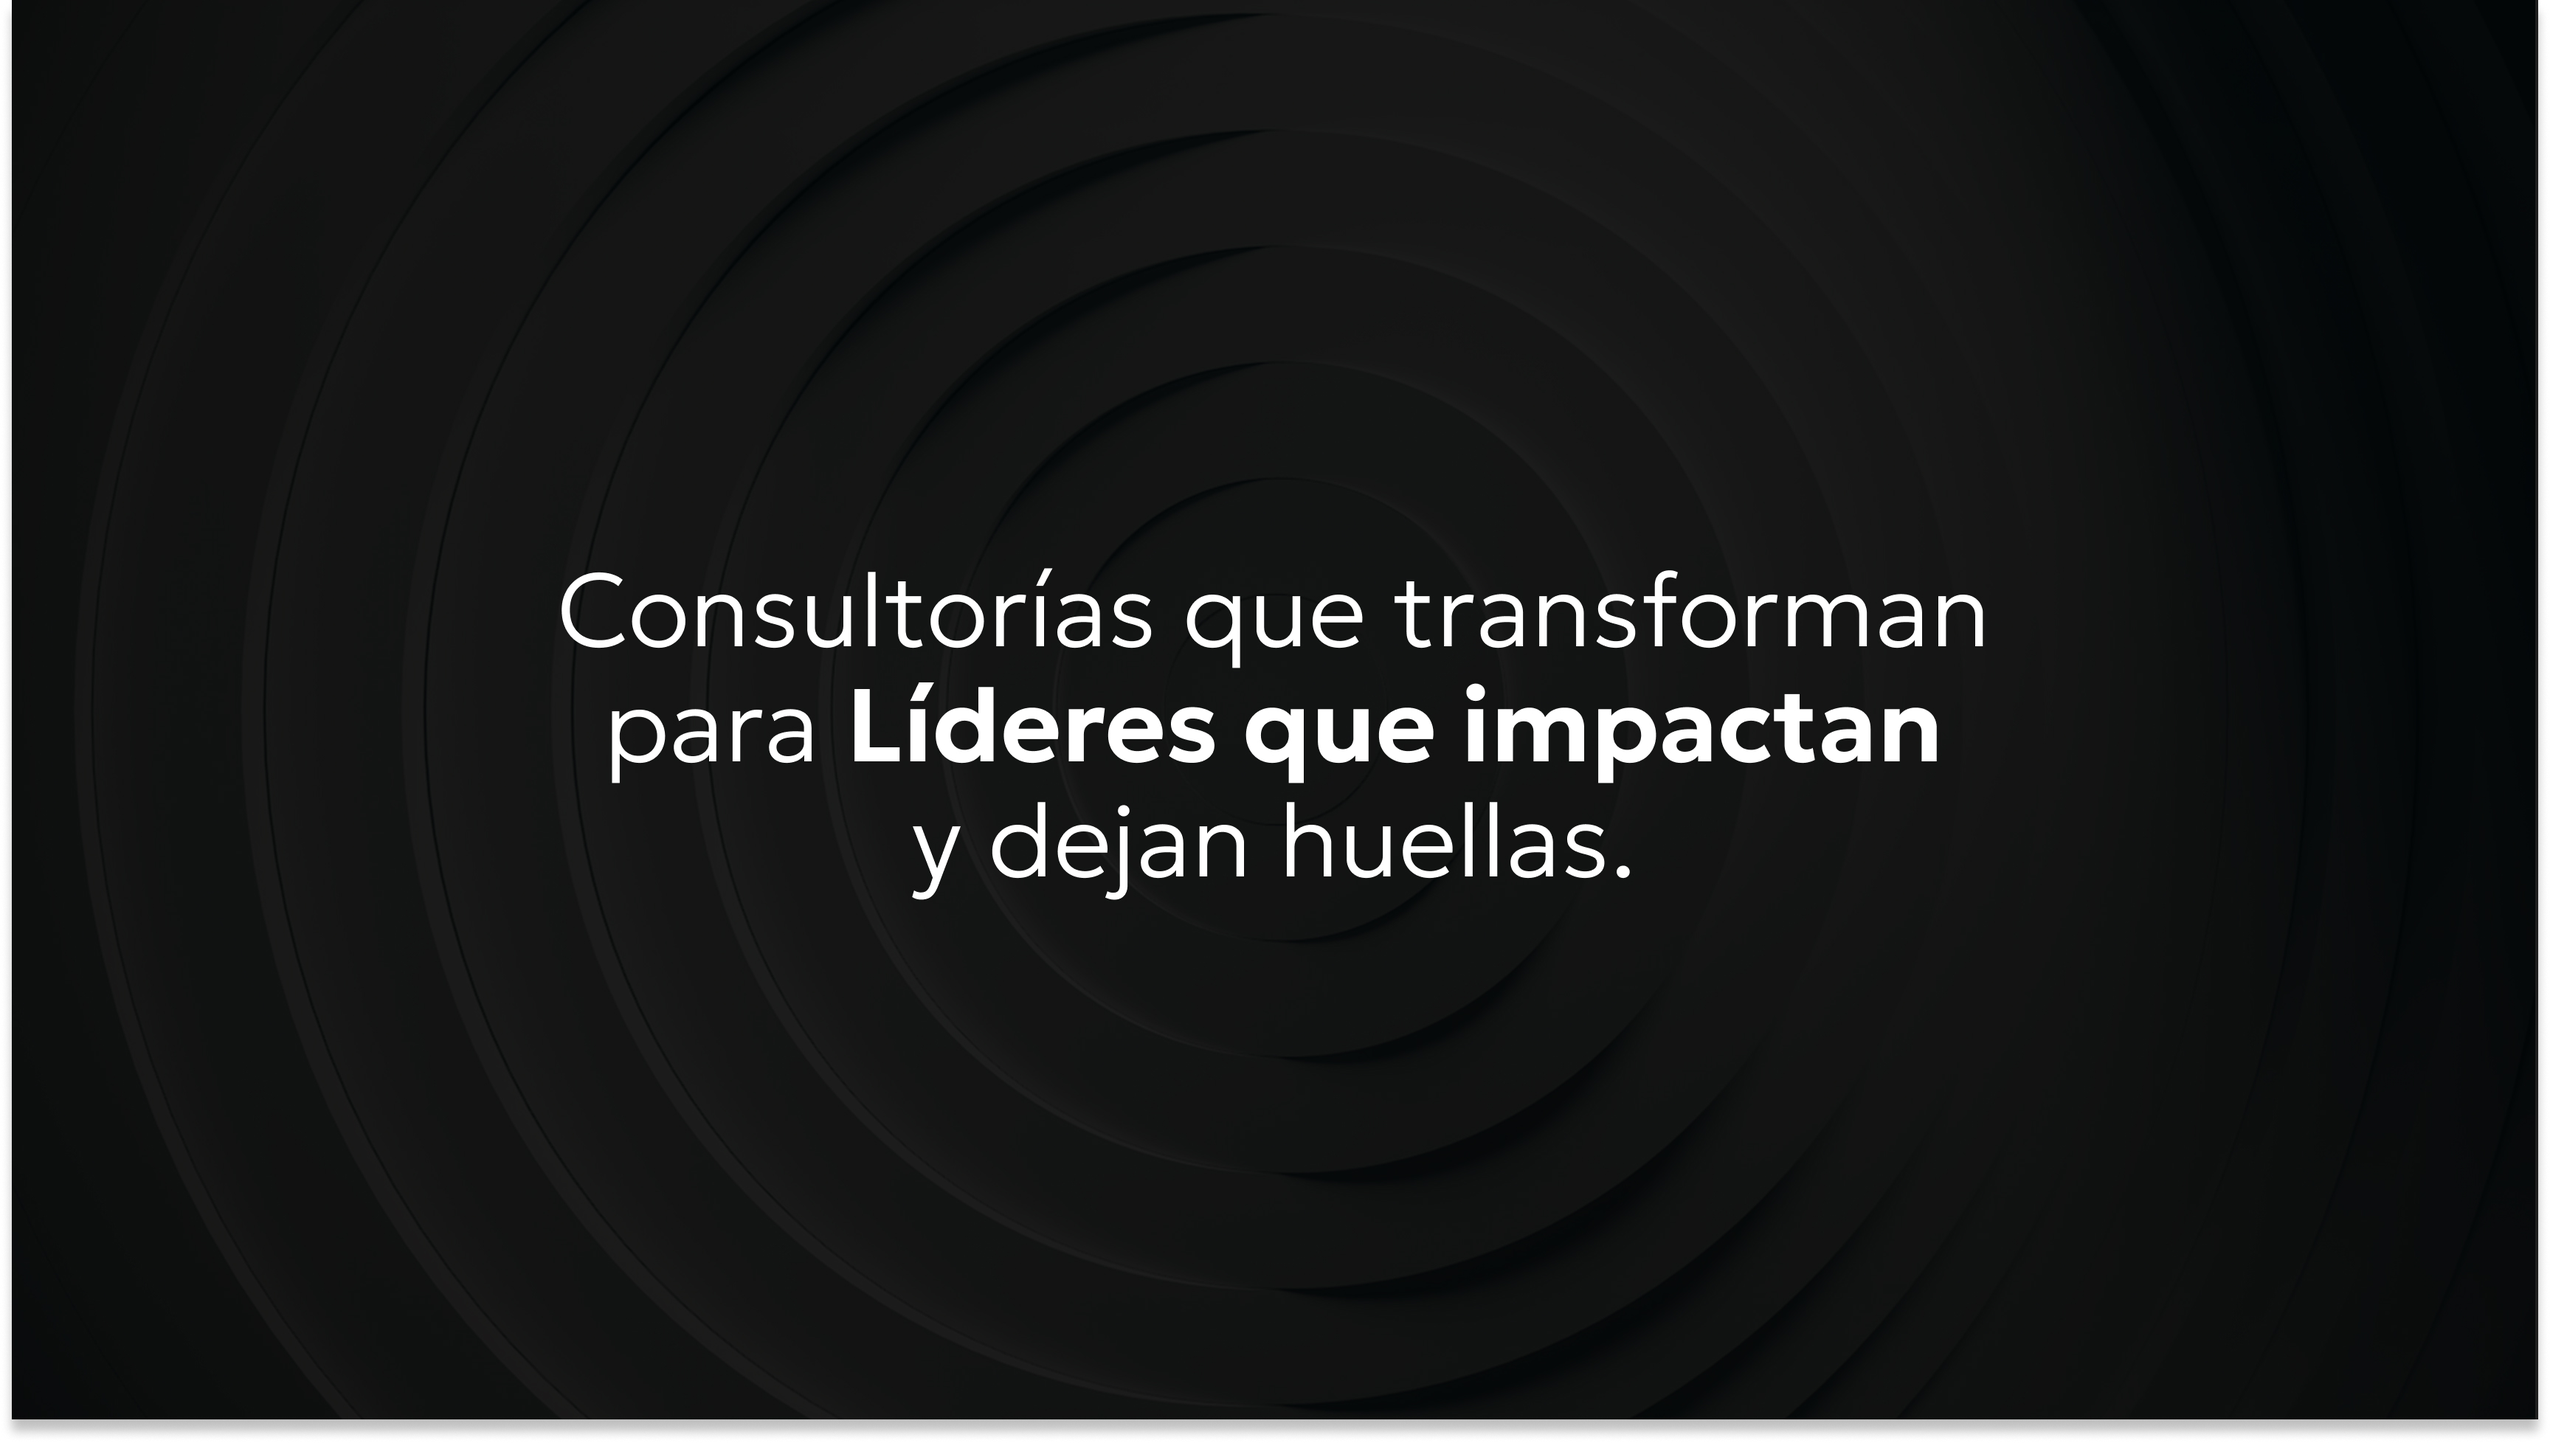
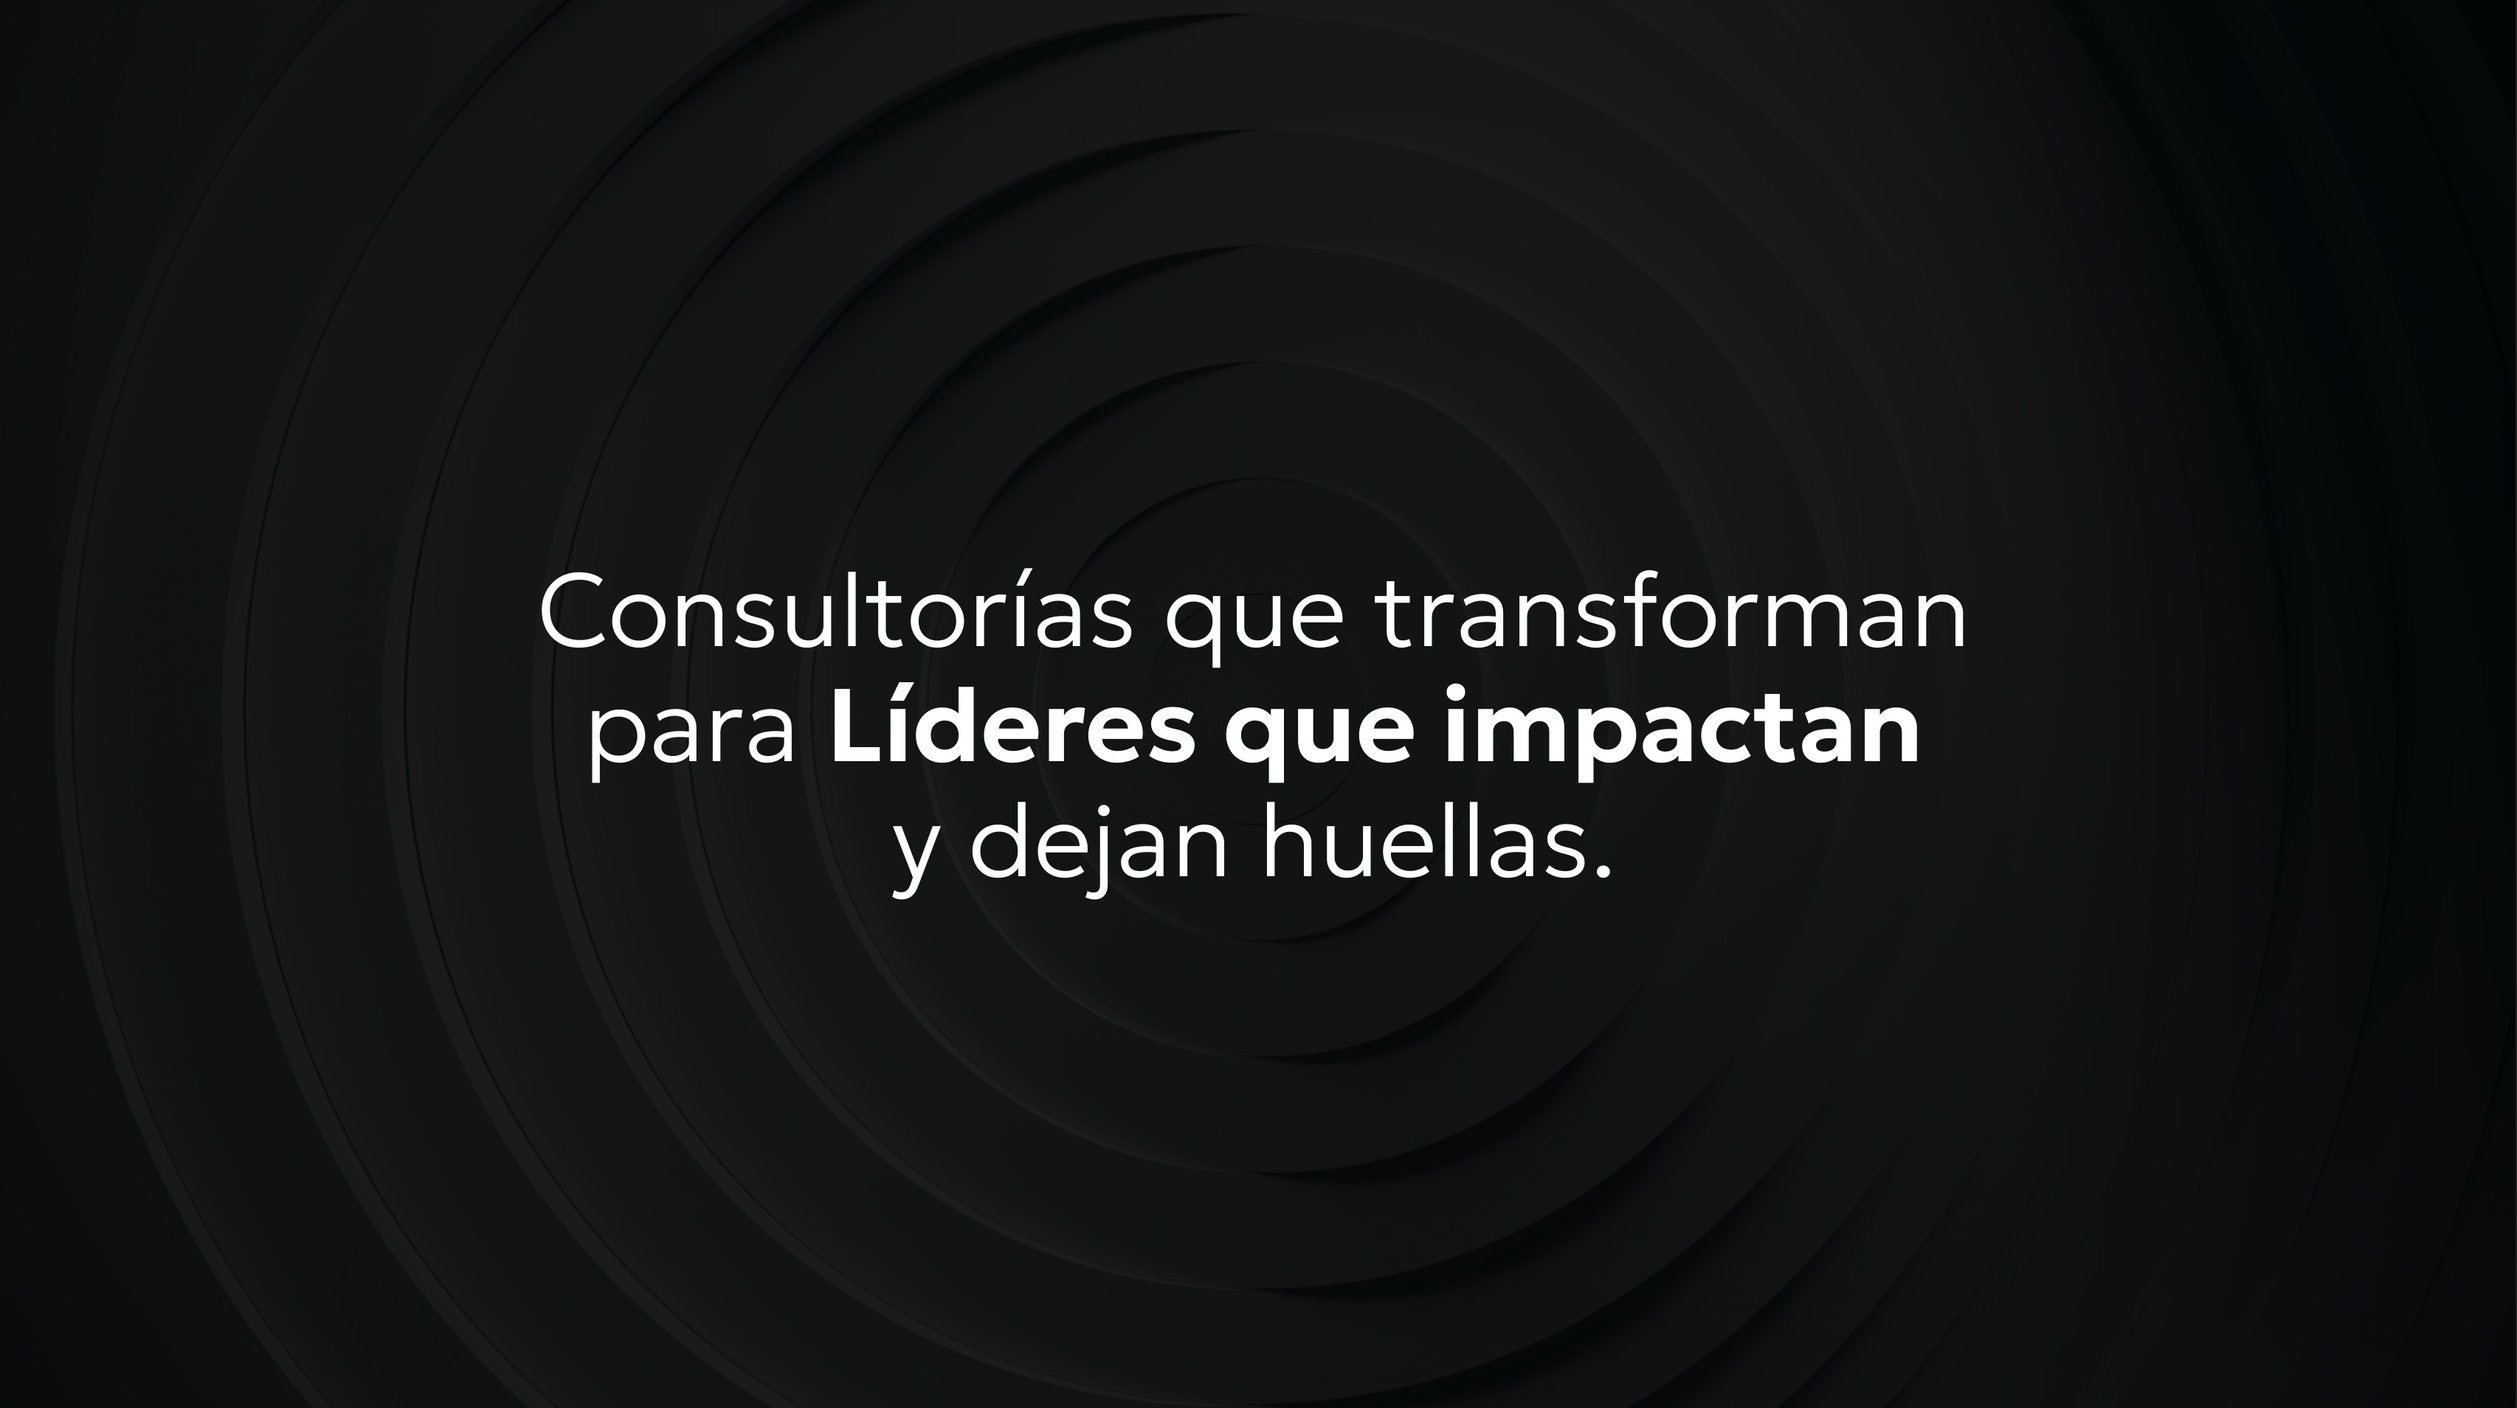
visual changes

Changed region(s): [[0.0, 0.0, 1.0, 1.0], [0.2175, 0.4018, 0.7769, 0.649]]

diff --git a/src/components/Testimonials/Testimonials.tsx b/src/components/Testimonials/Testimonials.tsx
@@ -18,7 +18,7 @@ function Testimonials() {
       name: "Victor L.",
       role: "Tesorero - Supervisor Operativo",
       preview: "Tuve la suerte de conocer a Eugenia en una formación que brindó el Banco. Me sorprendió como nos conocía antes de conocernos en persona...",
-      fullText: "Tuve la suerte de conocer a Eugenia en una formación que brindó el Banco. Me sorprendió como nos conocía antes de conocernos en persona. Había hecho un trabajo impresionante previo a la capacitación que nos brindó para poder encontrar herramientas específicas para cada uno de los presentes y éramos más de 30!\n\nEugenia maneja un dinamismo en sus charlas que hace que el mensaje llegue a la audiencia. Posee recursos muy variados y es una excelente oradora.\n\nPrincipalmente me dio herramientas para salir del lugar en el que estaba cómodo sin miedo a lo desconocido. Afrontar lo que no conozco con un plan o a donde quiero llegar y que pretendo lograr. Animarme al cambio.\n\nSu Consultoría, les servirá a todas aquellas organizaciones que estén buscando hacer un cambio importante en su estructura mejorando las relaciones entre los pares, desde el respeto y el entendimiento. En mi caso en particular fue una nueva forma de hacer negocios por parte del Banco, cambiar de personas con trabajos operativos a rutinarios, a personas con dinamismo y dispuestos a afrontar situaciones distintas de las usuales. Las personas que asistimos a su capacitación logramos muy buenos resultados en las ventas."
+      fullText: "Tuve la suerte de conocer a Eugenia en una formación que brindó el Banco. Me sorprendió como nos conocía antes de conocernos en persona. Había hecho un trabajo impresionante previo a la capacitación que nos brindó para poder encontrar herramientas específicas para cada uno de los presentes y éramos más de 30!\n\nEugenia maneja un dinamismo en sus charlas que hace que el mensaje llegue a la audiencia. Posee recursos muy variados y es una excelente oradora.\n\nPrincipalmente me dio herramientas para salir del lugar en el que estaba cómodo sin miedo a lo desconocido. Afrontar lo que no conozco con un plan de adónde quiero llegar y que pretendo lograr. Animarme al cambio.\n\nSu Consultoría, les servirá a todas aquellas organizaciones que estén buscando hacer un cambio importante en su estructura mejorando las relaciones entre los pares, desde el respeto y el entendimiento. En mi caso en particular fue una nueva forma de hacer negocios por parte del Banco, cambiar de personas con trabajos operativos a rutinarios, a personas con dinamismo y dispuestos a afrontar situaciones distintas de las usuales. Las personas que asistimos a su capacitación logramos muy buenos resultados en las ventas."
     },
     {
       id: 2,

diff --git a/src/components/Contact/styles.ts b/src/components/Contact/styles.ts
@@ -111,11 +111,12 @@ export const SocialLogos = styled.div`
 `;
 
 export const StyledSignature = styled.img`
-  width: 25rem;
+  width: 18rem;
   height: auto;
   object-fit: contain;
   position: absolute;
   margin-top: 5rem;
+  margin-left: 3rem;
 
   @media (max-width: 768px) {
     width: 10rem;
@@ -145,6 +146,7 @@ export const RightSide = styled.div`
       font-size: 1rem;
       resize: none;
       outline: none;
+      font-family: 'Geologica', sans-serif;
       
       &::placeholder {
         color: #888 !important;

diff --git a/src/components/Carrousel/Carrousel.tsx b/src/components/Carrousel/Carrousel.tsx
@@ -30,7 +30,12 @@ const slides: SlideData[] = [
     text: "Tiene el poder de transformarla"
   },
   {
-    src: "/images/Foto 3 carrusel.jpg",
+    src: "/images/Imagen 3.jpeg",
+    mobileSrc: "/images/Imagen 3 mobile.jpg",
+    text: "En nuevos recursos, nuevas posibilidades, nuevos escenarios"
+  },
+  {
+    src: "/images/Imagen 4.jpg",
     mobileSrc: "/images/Imagen 3 mobile.jpg",
     text: "En nuevos recursos, nuevas posibilidades, nuevos escenarios"
   },

diff --git a/src/components/Navbar/Navbar.tsx b/src/components/Navbar/Navbar.tsx
@@ -17,7 +17,7 @@ function Navbar() {
       <ContainerLinks>
         <Link to={'/'}>Inicio</Link>
         <a href="#servicios">Servicios</a>
-        <Link to={'/sobre-mi'}>Sobre Mi</Link>
+        <Link to={'/sobre-mi'}>Sobre Mí</Link>
         <a href="#contacto">Contacto</a>
       </ContainerLinks>
 
